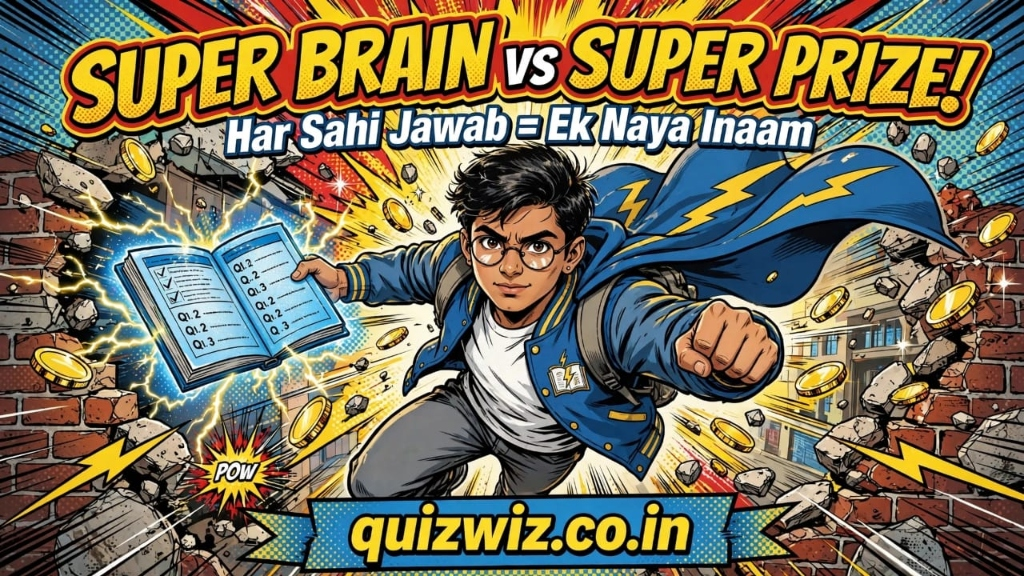
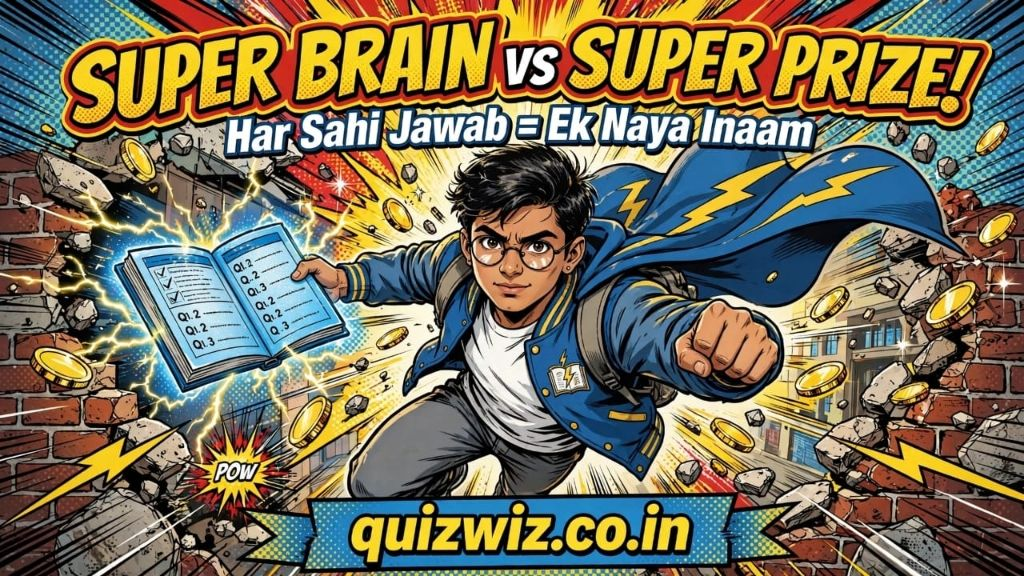
Apply ponytail audit: secure data access, batch SMTP sockets, compress images, and unify quiz data

diff --git a/assets/js/main.js b/assets/js/main.js
@@ -144,30 +144,13 @@ document.addEventListener('DOMContentLoaded', () => {
         userScore = 0;
 
         const qBank = window.quizWizCategoryQuestions || {};
+        const availableKeys = Object.keys(qBank);
         if (qBank[categoryKey] && Array.isArray(qBank[categoryKey]) && qBank[categoryKey].length > 0) {
             activeQuestions = qBank[categoryKey];
+        } else if (availableKeys.length > 0 && Array.isArray(qBank[availableKeys[0]])) {
+            activeQuestions = qBank[availableKeys[0]];
         } else {
-            // Fallback general questions
-            activeQuestions = [
-                {
-                    q: "Which is the highest civilian award in India?",
-                    options: ["Padma Vibhushan", "Bharat Ratna", "Param Vir Chakra", "Padma Bhushan"],
-                    correct: 1,
-                    exp: "Bharat Ratna is the highest civilian award of the Republic of India."
-                },
-                {
-                    q: "Which planet is known as the 'Red Planet'?",
-                    options: ["Venus", "Jupiter", "Mars", "Mercury"],
-                    correct: 2,
-                    exp: "Mars is known as the Red Planet due to iron oxide on its surface."
-                },
-                {
-                    q: "What is the sum of interior angles in any triangle?",
-                    options: ["90°", "180°", "270°", "360°"],
-                    correct: 1,
-                    exp: "The interior angles of any triangle always equal 180°."
-                }
-            ];
+            activeQuestions = [];
         }
 
         const titleEl = document.getElementById('modalQuizTitle');

diff --git a/ambassador.php b/ambassador.php
@@ -65,7 +65,7 @@ if ($_SERVER['REQUEST_METHOD'] === 'POST' && isset($_POST['action']) && $_POST['
                 'past_roles' => $raw_past_roles
             ]);
 
-            // 2. Dispatch internal alert to the configured administrator
+            // 2 & 3: Dispatch internal alert and student confirmation in single SMTP session
             $internalMsg = "<h3 style='color:#1B2559;'>New Campus Ambassador Application</h3>"
                 . "<p><strong>Applicant Name:</strong> " . htmlspecialchars($raw_name) . "</p>"
                 . "<p><strong>School / Institution:</strong> " . htmlspecialchars($raw_school) . "</p>"
@@ -77,25 +77,37 @@ if ($_SERVER['REQUEST_METHOD'] === 'POST' && isset($_POST['action']) && $_POST['
                 . "<p><strong>Why Ambassador (Statement):</strong><br>" . nl2br(htmlspecialchars($raw_statement)) . "</p>"
                 . "<p><strong>Past Roles / Leadership:</strong> " . htmlspecialchars($raw_past_roles) . "</p>"
                 . "<p style='font-size:12px;color:#64748B;'>Submitted via quizwiz.co.in/ambassador on " . date('d M Y, h:i A') . "</p>";
-            $admin_notification_sent = send_quizwiz_mail(EMAIL_SUPPORT, "New Ambassador Application: {$raw_name} ({$raw_school})", $internalMsg, EMAIL_CONNECT, 'QuizWiz Ambassador System');
-            if (!$admin_notification_sent) {
-                error_log("QuizWiz: Could not send ambassador notification to admin at " . EMAIL_SUPPORT);
-            }
 
-            // 3. Generic auto-reply confirmation to applicant from connect@quizwiz.co.in
-            $confirmation_sent = false;
+            $autoReplyMsg = "<h2 style='color:#1B2559;margin-top:0;'>We Received Your Application, " . htmlspecialchars($raw_name) . "!</h2>"
+                . "<p>Thank you for applying to become an official <strong>QuizWiz Campus Ambassador &amp; School Quiz Master</strong> representing <strong>" . htmlspecialchars($raw_school) . "</strong>.</p>"
+                . "<p>We have successfully received your application, and our student leadership team is currently reviewing your details.</p>"
+                . "<p>Our National Coordinator will reach out to you directly on WhatsApp / Phone (<strong>" . htmlspecialchars($raw_phone) . "</strong>) within <strong>24 to 48 hours</strong> to discuss your onboarding, official Quiz Master credentials, and swag kit.</p>"
+                . "<div style='background:#FFF7ED;border-left:4px solid #FF6B00;padding:12px 16px;margin:20px 0;border-radius:4px;font-size:14px;'>"
+                . "<strong>Need quick onboarding or have questions?</strong><br>Reply directly to this email or chat with our team on WhatsApp: <a href='https://wa.me/919801506511' style='color:#FF6B00;font-weight:700;'>+91 98015 06511</a>"
+                . "</div>"
+                . "<p>Keep inspiring your campus!</p>"
+                . "<p>Warm regards,<br><strong>Campus Ambassador Team</strong><br>QuizWiz India<br><a href='mailto:connect@quizwiz.co.in' style='color:#1B2559;'>connect@quizwiz.co.in</a></p>";
+
+            $mailBatch = [
+                [
+                    'to' => EMAIL_SUPPORT,
+                    'subject' => "New Ambassador Application: {$raw_name} ({$raw_school})",
+                    'messageHtml' => $internalMsg,
+                    'fromEmail' => EMAIL_CONNECT,
+                    'fromName' => 'QuizWiz Ambassador System'
+                ]
+            ];
             if (!empty($raw_email) && filter_var($raw_email, FILTER_VALIDATE_EMAIL)) {
-                $autoReplyMsg = "<h2 style='color:#1B2559;margin-top:0;'>We Received Your Application, " . htmlspecialchars($raw_name) . "!</h2>"
-                    . "<p>Thank you for applying to become an official <strong>QuizWiz Campus Ambassador &amp; School Quiz Master</strong> representing <strong>" . htmlspecialchars($raw_school) . "</strong>.</p>"
-                    . "<p>We have successfully received your application, and our student leadership team is currently reviewing your details.</p>"
-                    . "<p>Our National Coordinator will reach out to you directly on WhatsApp / Phone (<strong>" . htmlspecialchars($raw_phone) . "</strong>) within <strong>24 to 48 hours</strong> to discuss your onboarding, official Quiz Master credentials, and swag kit.</p>"
-                    . "<div style='background:#FFF7ED;border-left:4px solid #FF6B00;padding:12px 16px;margin:20px 0;border-radius:4px;font-size:14px;'>"
-                    . "<strong>Need quick onboarding or have questions?</strong><br>Reply directly to this email or chat with our team on WhatsApp: <a href='https://wa.me/919801506511' style='color:#FF6B00;font-weight:700;'>+91 98015 06511</a>"
-                    . "</div>"
-                    . "<p>Keep inspiring your campus!</p>"
-                    . "<p>Warm regards,<br><strong>Campus Ambassador Team</strong><br>QuizWiz India<br><a href='mailto:connect@quizwiz.co.in' style='color:#1B2559;'>connect@quizwiz.co.in</a></p>";
-                $confirmation_sent = send_quizwiz_mail($raw_email, 'We have received your QuizWiz Campus Ambassador application!', $autoReplyMsg, EMAIL_CONNECT, 'QuizWiz Ambassador Team');
+                $mailBatch[] = [
+                    'to' => $raw_email,
+                    'subject' => 'We have received your QuizWiz Campus Ambassador application!',
+                    'messageHtml' => $autoReplyMsg,
+                    'fromEmail' => EMAIL_CONNECT,
+                    'fromName' => 'QuizWiz Ambassador Team'
+                ];
             }
+            $mailResults = send_quizwiz_batch_mail($mailBatch);
+            $confirmation_sent = !empty($mailResults[1]);
 
             $applicant_name = htmlspecialchars($raw_name, ENT_QUOTES, 'UTF-8');
             $school_name = htmlspecialchars($raw_school, ENT_QUOTES, 'UTF-8');

diff --git a/includes/config.php b/includes/config.php
@@ -150,6 +150,103 @@ function send_quizwiz_mail(string $to, string $subject, string $messageHtml, str
     return @mail($to, $subject, $wrappedHtml, implode("\r\n", $fallbackHeaders));
 }
 
+/**
+ * Send multiple emails over a single SMTP socket handshake
+ * Drastically cuts user wait time on forms sending both admin alert and student confirmation.
+ */
+function send_quizwiz_batch_mail(array $messages): array {
+    $results = [];
+    if (empty($messages)) return $results;
+
+    $host = 'ssl://' . SMTP_HOST . ':' . SMTP_PORT;
+    $socket = @stream_socket_client($host, $errno, $errstr, 4);
+
+    if ($socket) {
+        stream_set_timeout($socket, 4);
+        $read = function() use ($socket) {
+            $data = '';
+            while ($line = fgets($socket)) {
+                $data .= $line;
+                if (substr($line, 3, 1) === ' ') break;
+            }
+            return $data;
+        };
+        $send = function($cmd) use ($socket) {
+            fputs($socket, $cmd . "\r\n");
+        };
+
+        $read();
+        $send("EHLO " . SMTP_HOST);
+        $read();
+        $send("AUTH LOGIN");
+        $read();
+        $firstFrom = $messages[0]['fromEmail'] ?? EMAIL_SUPPORT;
+        $send(base64_encode($firstFrom));
+        $read();
+        $send(base64_encode(SMTP_PASS));
+        $authRes = $read();
+
+        if (strpos($authRes, '235') !== false) {
+            foreach ($messages as $idx => $msg) {
+                $to = $msg['to'];
+                $subject = $msg['subject'];
+                $fromEmail = $msg['fromEmail'] ?? $firstFrom;
+                $fromName = $msg['fromName'] ?? SITE_NAME;
+                
+                $wrappedHtml = '<!DOCTYPE html><html><head><meta charset="UTF-8"><title>' . htmlspecialchars($subject) . '</title></head>'
+                    . '<body style="margin:0;padding:24px;background:#F8FAFC;font-family:Arial,Helvetica,sans-serif;color:#1E293B;">'
+                    . '<div style="max-width:600px;margin:0 auto;background:#FFFFFF;border-radius:12px;border:1px solid #E2E8F0;overflow:hidden;box-shadow:0 4px 6px rgba(0,0,0,0.05);">'
+                    . '<div style="background:#1B2559;padding:20px;text-align:center;">'
+                    . '<img src="https://quizwiz.co.in/assets/images/logo.png" alt="QuizWiz Logo" style="height:36px;width:auto;display:inline-block;">'
+                    . '</div>'
+                    . '<div style="padding:28px 24px;line-height:1.6;font-size:15px;">' . ($msg['messageHtml'] ?? '') . '</div>'
+                    . '<div style="background:#F1F5F9;padding:16px 24px;text-align:center;font-size:12px;color:#64748B;border-top:1px solid #E2E8F0;">'
+                    . 'QuizWiz — All India Quiz Championships<br>Helpline: +91 98015 06511 | Ranchi, Jharkhand, India'
+                    . '</div></div></body></html>';
+
+                $send("RSET");
+                $read();
+                $send("MAIL FROM:<{$fromEmail}>");
+                $read();
+                $send("RCPT TO:<{$to}>");
+                $read();
+                $send("DATA");
+                $read();
+
+                $headers = "MIME-Version: 1.0\r\n"
+                         . "Content-Type: text/html; charset=UTF-8\r\n"
+                         . "From: =?UTF-8?B?" . base64_encode($fromName) . "?= <{$fromEmail}>\r\n"
+                         . "To: <{$to}>\r\n"
+                         . "Reply-To: <{$fromEmail}>\r\n"
+                         . "Subject: =?UTF-8?B?" . base64_encode($subject) . "?=\r\n"
+                         . "Date: " . date('r') . "\r\n"
+                         . "X-Mailer: QuizWiz-SMTP/1.0\r\n";
+
+                $send($headers . "\r\n" . $wrappedHtml . "\r\n.");
+                $dataRes = $read();
+                $results[$idx] = (strpos($dataRes, '250') !== false);
+            }
+            $send("QUIT");
+            fclose($socket);
+            return $results;
+        } else {
+            fclose($socket);
+        }
+    }
+
+    // Fallback: send individually using existing function
+    foreach ($messages as $idx => $msg) {
+        $results[$idx] = send_quizwiz_mail(
+            $msg['to'],
+            $msg['subject'],
+            $msg['messageHtml'],
+            $msg['fromEmail'] ?? EMAIL_SUPPORT,
+            $msg['fromName'] ?? SITE_NAME
+        );
+    }
+    return $results;
+}
+
 function claim_quizwiz_form_submission(mixed $formKey, mixed $token): string {
     if (!is_string($formKey) || !is_string($token)
         || !preg_match('/\A[a-z0-9_-]+\z/i', $formKey)

diff --git a/enroll.php b/enroll.php
@@ -56,7 +56,7 @@ if ($_SERVER['REQUEST_METHOD'] === 'POST' && isset($_POST['action']) && $_POST['
             $safe_group = htmlspecialchars($group, ENT_QUOTES, 'UTF-8');
             $safe_phone = htmlspecialchars($phone, ENT_QUOTES, 'UTF-8');
 
-            // 1. Alert the administrator
+            // 1 & 2: Dispatch admin notification and student confirmation in single SMTP session
             $internalMsg = "<h3 style='color:#1B2559;'>New Student Championship Enrollment</h3>"
                 . "<p><strong>Student Name:</strong> {$safe_name}</p>"
                 . "<p><strong>Class:</strong> " . htmlspecialchars($class) . "</p>"
@@ -65,12 +65,7 @@ if ($_SERVER['REQUEST_METHOD'] === 'POST' && isset($_POST['action']) && $_POST['
                 . "<p><strong>WhatsApp Phone:</strong> {$safe_phone}</p>"
                 . "<p><strong>Email:</strong> " . htmlspecialchars($email) . "</p>"
                 . "<p style='font-size:12px;color:#64748B;'>Submitted via quizwiz.co.in/enroll on " . date('d M Y, h:i A') . "</p>";
-            $admin_notification_sent = send_quizwiz_mail(EMAIL_SUPPORT, "New Championship Enrollment: {$name} ({$group})", $internalMsg, EMAIL_SUPPORT, 'QuizWiz Enrollments');
-            if (!$admin_notification_sent) {
-                error_log("QuizWiz: Could not send enrollment notification to admin at " . EMAIL_SUPPORT);
-            }
 
-            // 2. Confirmation to student/parent from support@quizwiz.co.in
             $studentMsg = "<h2 style='color:#1B2559;margin-top:0;'>Enrollment Received, {$safe_name}!</h2>"
                 . "<p>Thank you for enrolling in the <strong>All India Quiz Championships</strong> representing <strong>" . htmlspecialchars($school) . "</strong> in <strong>{$safe_group}</strong>.</p>"
                 . "<p>Your registration has been successfully received by our academic desk.</p>"
@@ -80,7 +75,25 @@ if ($_SERVER['REQUEST_METHOD'] === 'POST' && isset($_POST['action']) && $_POST['
                 . "</div>"
                 . "<p>Best wishes for your championship journey!</p>"
                 . "<p>Warm regards,<br><strong>Academic Support Desk</strong><br>QuizWiz India</p>";
-            $confirmation_sent = send_quizwiz_mail($email, 'We received your enrollment | All India Quiz Championships', $studentMsg, EMAIL_SUPPORT, 'QuizWiz Support Team');
+
+            $mailBatch = [
+                [
+                    'to' => EMAIL_SUPPORT,
+                    'subject' => "New Championship Enrollment: {$name} ({$group})",
+                    'messageHtml' => $internalMsg,
+                    'fromEmail' => EMAIL_SUPPORT,
+                    'fromName' => 'QuizWiz Enrollments'
+                ],
+                [
+                    'to' => $email,
+                    'subject' => 'We received your enrollment | All India Quiz Championships',
+                    'messageHtml' => $studentMsg,
+                    'fromEmail' => EMAIL_SUPPORT,
+                    'fromName' => 'QuizWiz Support Team'
+                ]
+            ];
+            $mailResults = send_quizwiz_batch_mail($mailBatch);
+            $confirmation_sent = !empty($mailResults[1]);
 
             $success_message = "Thank you, {$safe_name}! Your enrollment for {$safe_group} has been successfully recorded. ";
             $success_message .= $confirmation_sent

diff --git a/router.php b/router.php
@@ -12,6 +12,13 @@ $uri = urldecode($uri);
 // Requested file path on disk
 $requested = __DIR__ . $uri;
 
+// 0. Protect sensitive folders and data from direct access
+if (preg_match('#^/(data|\.env|includes)/#i', $uri) || preg_match('/\.(csv|json|log|env)$/i', $uri)) {
+    http_response_code(403);
+    echo "<!DOCTYPE html><html><head><title>403 Forbidden</title></head><body style='font-family:sans-serif;text-align:center;padding:50px;'><h1>403 - Forbidden</h1><p>Direct access to this resource is prohibited.</p></body></html>";
+    return true;
+}
+
 // 1. If static file exists (css, js, images, etc.), let the server serve it directly
 if ($uri !== '/' && file_exists($requested) && !is_dir($requested)) {
     return false;

diff --git a/admin-export.php b/admin-export.php
@@ -5,6 +5,8 @@
  */
 require_once __DIR__ . '/includes/config.php';
 
+header('X-Robots-Tag: noindex, nofollow', true);
+
 $secretKey = defined('ADMIN_EXPORT_KEY') ? ADMIN_EXPORT_KEY : 'QuizwizAdmin2026';
 $reqKey = trim($_GET['key'] ?? '');
 
